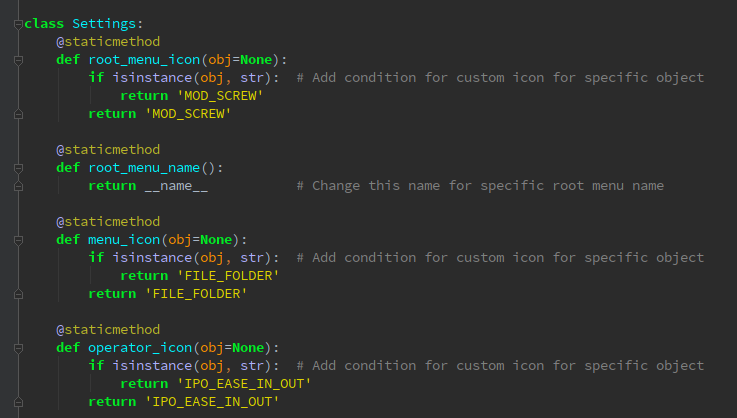
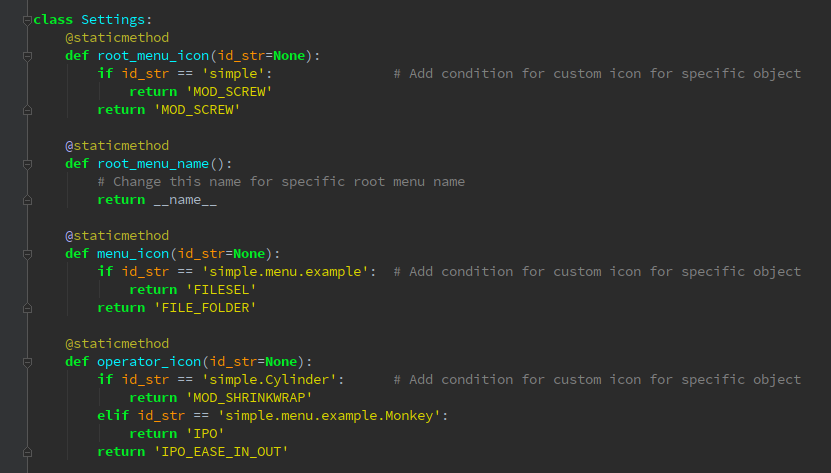
Some fixes

diff --git a/src/simple/__init__.py b/src/simple/__init__.py
@@ -16,25 +16,28 @@ bl_info = {
 
 class Settings:
     @staticmethod
-    def root_menu_icon(obj=None):
-        if isinstance(obj, str):  # Add condition for custom icon for specific object
+    def root_menu_icon(id_str=None):
+        if id_str == 'simple':               # Add condition for custom icon for specific object
             return 'MOD_SCREW'
         return 'MOD_SCREW'
 
     @staticmethod
     def root_menu_name():
-        return __name__           # Change this name for specific root menu name
+        # Change this name for specific root menu name
+        return __name__
 
     @staticmethod
-    def menu_icon(obj=None):
-        if isinstance(obj, str):  # Add condition for custom icon for specific object
-            return 'FILE_FOLDER'
+    def menu_icon(id_str=None):
+        if id_str == 'simple.menu.example':  # Add condition for custom icon for specific object
+            return 'FILESEL'
         return 'FILE_FOLDER'
 
     @staticmethod
-    def operator_icon(obj=None):
-        if isinstance(obj, str):  # Add condition for custom icon for specific object
-            return 'IPO_EASE_IN_OUT'
+    def operator_icon(id_str=None):
+        if id_str == 'simple.Cylinder':      # Add condition for custom icon for specific object
+            return 'MOD_SHRINKWRAP'
+        elif id_str == 'simple.menu.example.Monkey':
+            return 'IPO'
         return 'IPO_EASE_IN_OUT'
 
 
@@ -167,7 +170,7 @@ class Menu(Entry):
             if not submenu_name:
                 submenu_name = module.__name__.replace(self._name + '.', '')
                 submenu.entry.bl_label = submenu_name
-            self.entry.add_submenu(self.entry, submenu.entry, submenu_name)
+            self.entry.add_submenu(self.entry, submenu.entry, module.__name__, submenu_name)
 
         for cl in entries['classes']:
             if issubclass(cl, bpy.types.Operator):
@@ -177,11 +180,11 @@ class Menu(Entry):
                 if not operator_name:
                     operator_name = cl.__name__.replace(self._name + '.', '')
                     suboperator.entry.bl_label = operator_name
-                self.entry.add_operator(self.entry, suboperator.entry, operator_name)
+                self.entry.add_operator(self.entry, suboperator.entry, self._name + '.' + cl.__name__, operator_name)
 
     def menu(self, bpy_self, context):
         if self.entry:
-            bpy_self.layout.menu(self.entry.bl_idname, text=self.entry.bl_label, icon=Settings.root_menu_icon(self))
+            bpy_self.layout.menu(self.entry.bl_idname, text=self.entry.bl_label, icon=Settings.root_menu_icon(self._name))
 
     @IndentedLogger
     def register(self):
@@ -214,17 +217,17 @@ class Menu(Entry):
             layout.operator_context = 'INVOKE_REGION_WIN'
 
             for menu in self.menus:
-                layout.menu(menu['object'].bl_idname, text=menu['text'], icon=Settings.menu_icon(menu['object']))
+                layout.menu(menu['object'].bl_idname, text=menu['text'], icon=Settings.menu_icon(menu['id']))
 
             for operator in self.operators:
                 opid = operator['object'].bl_idname
-                layout.operator(opid, text=operator['text'], icon=Settings.operator_icon(operator['object']))
+                layout.operator(opid, text=operator['text'], icon=Settings.operator_icon(operator['id']))
 
-        def add_submenu(self, bl_id, label):
-            self.menus.append({'object': bl_id, 'text': label})
+        def add_submenu(self, bl_id, id_str, label):
+            self.menus.append({'object': bl_id, 'id': id_str, 'text': label})
 
-        def add_operator(self, bl_id, label):
-            self.operators.append({'object': bl_id, 'text': label})
+        def add_operator(self, bl_id, id_str, label):
+            self.operators.append({'object': bl_id, 'id': id_str, 'text': label})
 
         menu_type.draw = draw
         menu_type.add_submenu = add_submenu
